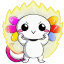
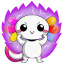
feat(sybil-slayer): Enhance game canvas visuals and mechanics
- Increased opacity of quicksand effect in GameCanvas for better visibility during gameplay.
- Adjusted final score text positioning to ensure it is equidistant between the image and buttons, improving UI layout.
- Introduced a new effective radius constant for red zones to refine collision detection, enhancing gameplay dynamics.
- Updated collectible image 'goatskin.png' to improve visual variety in the game.

diff --git a/games/sybil-slayer/src/components/game-canvas.tsx b/games/sybil-slayer/src/components/game-canvas.tsx
@@ -992,7 +992,8 @@ const GameCanvas: React.FC<GameCanvasProps> = ({ gameState, width, height, energ
     } else {
       // Fase activa: arenas movedizas completamente visible
       if (quicksandImgRef.current) {
-        ctx.globalAlpha = 0.85;
+        // Aumentar opacidad final para que no quede más clara que durante el parpadeo
+        ctx.globalAlpha = 0.95;
         ctx.drawImage(quicksandImgRef.current, zone.x, zone.y, zone.width, zone.height);
         // Se evita dibujar rectángulos que agreguen bordes cuadrados
       } else {
@@ -2985,7 +2986,10 @@ const GameCanvas: React.FC<GameCanvasProps> = ({ gameState, width, height, energ
         }
         
         const imgX = (width - imgWidth) / 2;
-        const imgY = (height - imgHeight) / 2 - 40; // Centrar verticalmente con pequeño offset
+        // Centrar verticalmente con pequeño offset; para time/vidas subir 40px adicionales
+        const baseImgY = (height - imgHeight) / 2 - 40;
+        const extraUpOffset = (gameOverType === 'time' || gameOverType === 'vidas') ? 40 : 0;
+        const imgY = baseImgY - extraUpOffset;
         
         // Añadir efecto de glow violeta por detrás SOLO para wallet_gameover.png
         if (gameOverType === 'wallet') {
@@ -3053,10 +3057,10 @@ const GameCanvas: React.FC<GameCanvasProps> = ({ gameState, width, height, energ
             break;
         }
         
-        // Calcular la parte inferior de la imagen para posicionar el texto debajo
+        // Calcular la parte inferior de la imagen para posicionar el texto con referencia a imagen y botones
         const imageBottom = imgY + imgHeight;
         
-        // Mantener el texto del puntaje final y la instrucción para reiniciar DEBAJO de la imagen
+        // Mantener el texto del puntaje final equidistante entre la imagen y los botones
         ctx.fillStyle = '#FFFFFF'; // Texto blanco para contraste con fondo negro
         ctx.strokeStyle = '#000000'; // Borde negro para mayor legibilidad
         ctx.lineWidth = 3; // Borde más grueso
@@ -3064,9 +3068,19 @@ const GameCanvas: React.FC<GameCanvasProps> = ({ gameState, width, height, energ
         // Hacer el texto más grande
         ctx.font = '32px Mitr-Bold'; // Más grande que SCORE_FONT
         ctx.textAlign = 'center';
-        // Dibujar texto con borde (subido para dejar espacio a los botones)
-        ctx.strokeText(`Final Score: ${Math.floor(gameState.score)}`, width / 2, imageBottom + 20);
-        ctx.fillText(`Final Score: ${Math.floor(gameState.score)}`, width / 2, imageBottom + 20);
+        // Calcular Y objetivo: punto medio entre el borde inferior de la imagen y la parte superior de los botones DOM
+        const BUTTONS_HEIGHT = 50; // altura de las imágenes de botón
+        const BUTTONS_BOTTOM_PADDING = 64; // pb-16 en Tailwind (16 * 4px)
+        const buttonsTopY = height - BUTTONS_BOTTOM_PADDING - BUTTONS_HEIGHT;
+        // Seguridad: margen mínimo de separación respecto a imagen y botones
+        const TEXT_MARGIN = 16;
+        const idealMidY = (imageBottom + buttonsTopY) / 2;
+        const minY = imageBottom + TEXT_MARGIN;
+        const maxY = buttonsTopY - TEXT_MARGIN;
+        const textY = Math.max(minY, Math.min(maxY, idealMidY));
+        // Dibujar texto con borde en la posición calculada
+        ctx.strokeText(`Final Score: ${Math.floor(gameState.score)}`, width / 2, textY);
+        ctx.fillText(`Final Score: ${Math.floor(gameState.score)}`, width / 2, textY);
         
         // Texto de reinicio eliminado - ahora se usan botones
         

diff --git a/games/sybil-slayer/src/hooks/useGameState.ts b/games/sybil-slayer/src/hooks/useGameState.ts
@@ -21,6 +21,7 @@ import {
   RED_ZONE_SPAWN_INTERVAL_MIN_MS, RED_ZONE_SPAWN_INTERVAL_MAX_MS, RED_ZONE_MAX_COUNT,
   RED_ZONE_MIN_WIDTH_RATIO, RED_ZONE_MAX_WIDTH_RATIO, RED_ZONE_MIN_HEIGHT_RATIO, RED_ZONE_MAX_HEIGHT_RATIO,
   RED_ZONE_MIN_SEPARATION,
+  RED_ZONE_EFFECT_RADIUS_RATIO,
   RUNE_FIRST_SPAWN_MS, RUNE_NEXT_SPAWN_MS, RUNE_SCORE_INCREMENT, MAX_LEVEL_WITH_TOTEM, MAX_LEVEL, RUNE_TYPES,
   GOAT_ELIMINATION_DURATION_MS, GOAT_IMMUNITY_DURATION_MS, TOKEN_DAMAGE_IMMUNITY_MS
 } from '../lib/constants';
@@ -732,11 +733,15 @@ const safeCreateRedZone = (
 };
 
 const isTokenInsideRedZone = (token: Token, zone: RedZone): boolean => {
-  const closestX = clamp(token.x, zone.x, zone.x + zone.width);
-  const closestY = clamp(token.y, zone.y, zone.y + zone.height);
-  const dx = token.x - closestX;
-  const dy = token.y - closestY;
-  return dx * dx + dy * dy <= token.radius * token.radius;
+  // Usar un área circular reducida en el centro de la mancha para la ralentización
+  const centerX = zone.x + zone.width / 2;
+  const centerY = zone.y + zone.height / 2;
+  const effectiveRadius = Math.min(zone.width, zone.height) * RED_ZONE_EFFECT_RADIUS_RATIO;
+  const dx = token.x - centerX;
+  const dy = token.y - centerY;
+  const distanceSq = dx * dx + dy * dy;
+  const combined = effectiveRadius + token.radius;
+  return distanceSq <= combined * combined;
 };
 
 const createInitialTreasureState = (): TreasureState => ({

diff --git a/games/sybil-slayer/src/lib/constants.ts b/games/sybil-slayer/src/lib/constants.ts
@@ -31,6 +31,8 @@ export const RED_ZONE_MAX_WIDTH_RATIO = 0.32; // Cobertura máxima del ancho del
 export const RED_ZONE_MIN_HEIGHT_RATIO = 0.18; // Cobertura mínima del alto del canvas
 export const RED_ZONE_MAX_HEIGHT_RATIO = 0.32; // Cobertura máxima del alto del canvas
 export const RED_ZONE_MIN_SEPARATION = 100; // Distancia mínima entre zonas rojas para permitir paso del token
+// Radio efectivo de colisión para arenas movedizas (proporción del menor lado)
+export const RED_ZONE_EFFECT_RADIUS_RATIO = 0.42;
 
 // Token Properties
 export const TOKEN_RADIUS = 24; // 48x48px - Mantener este como base
